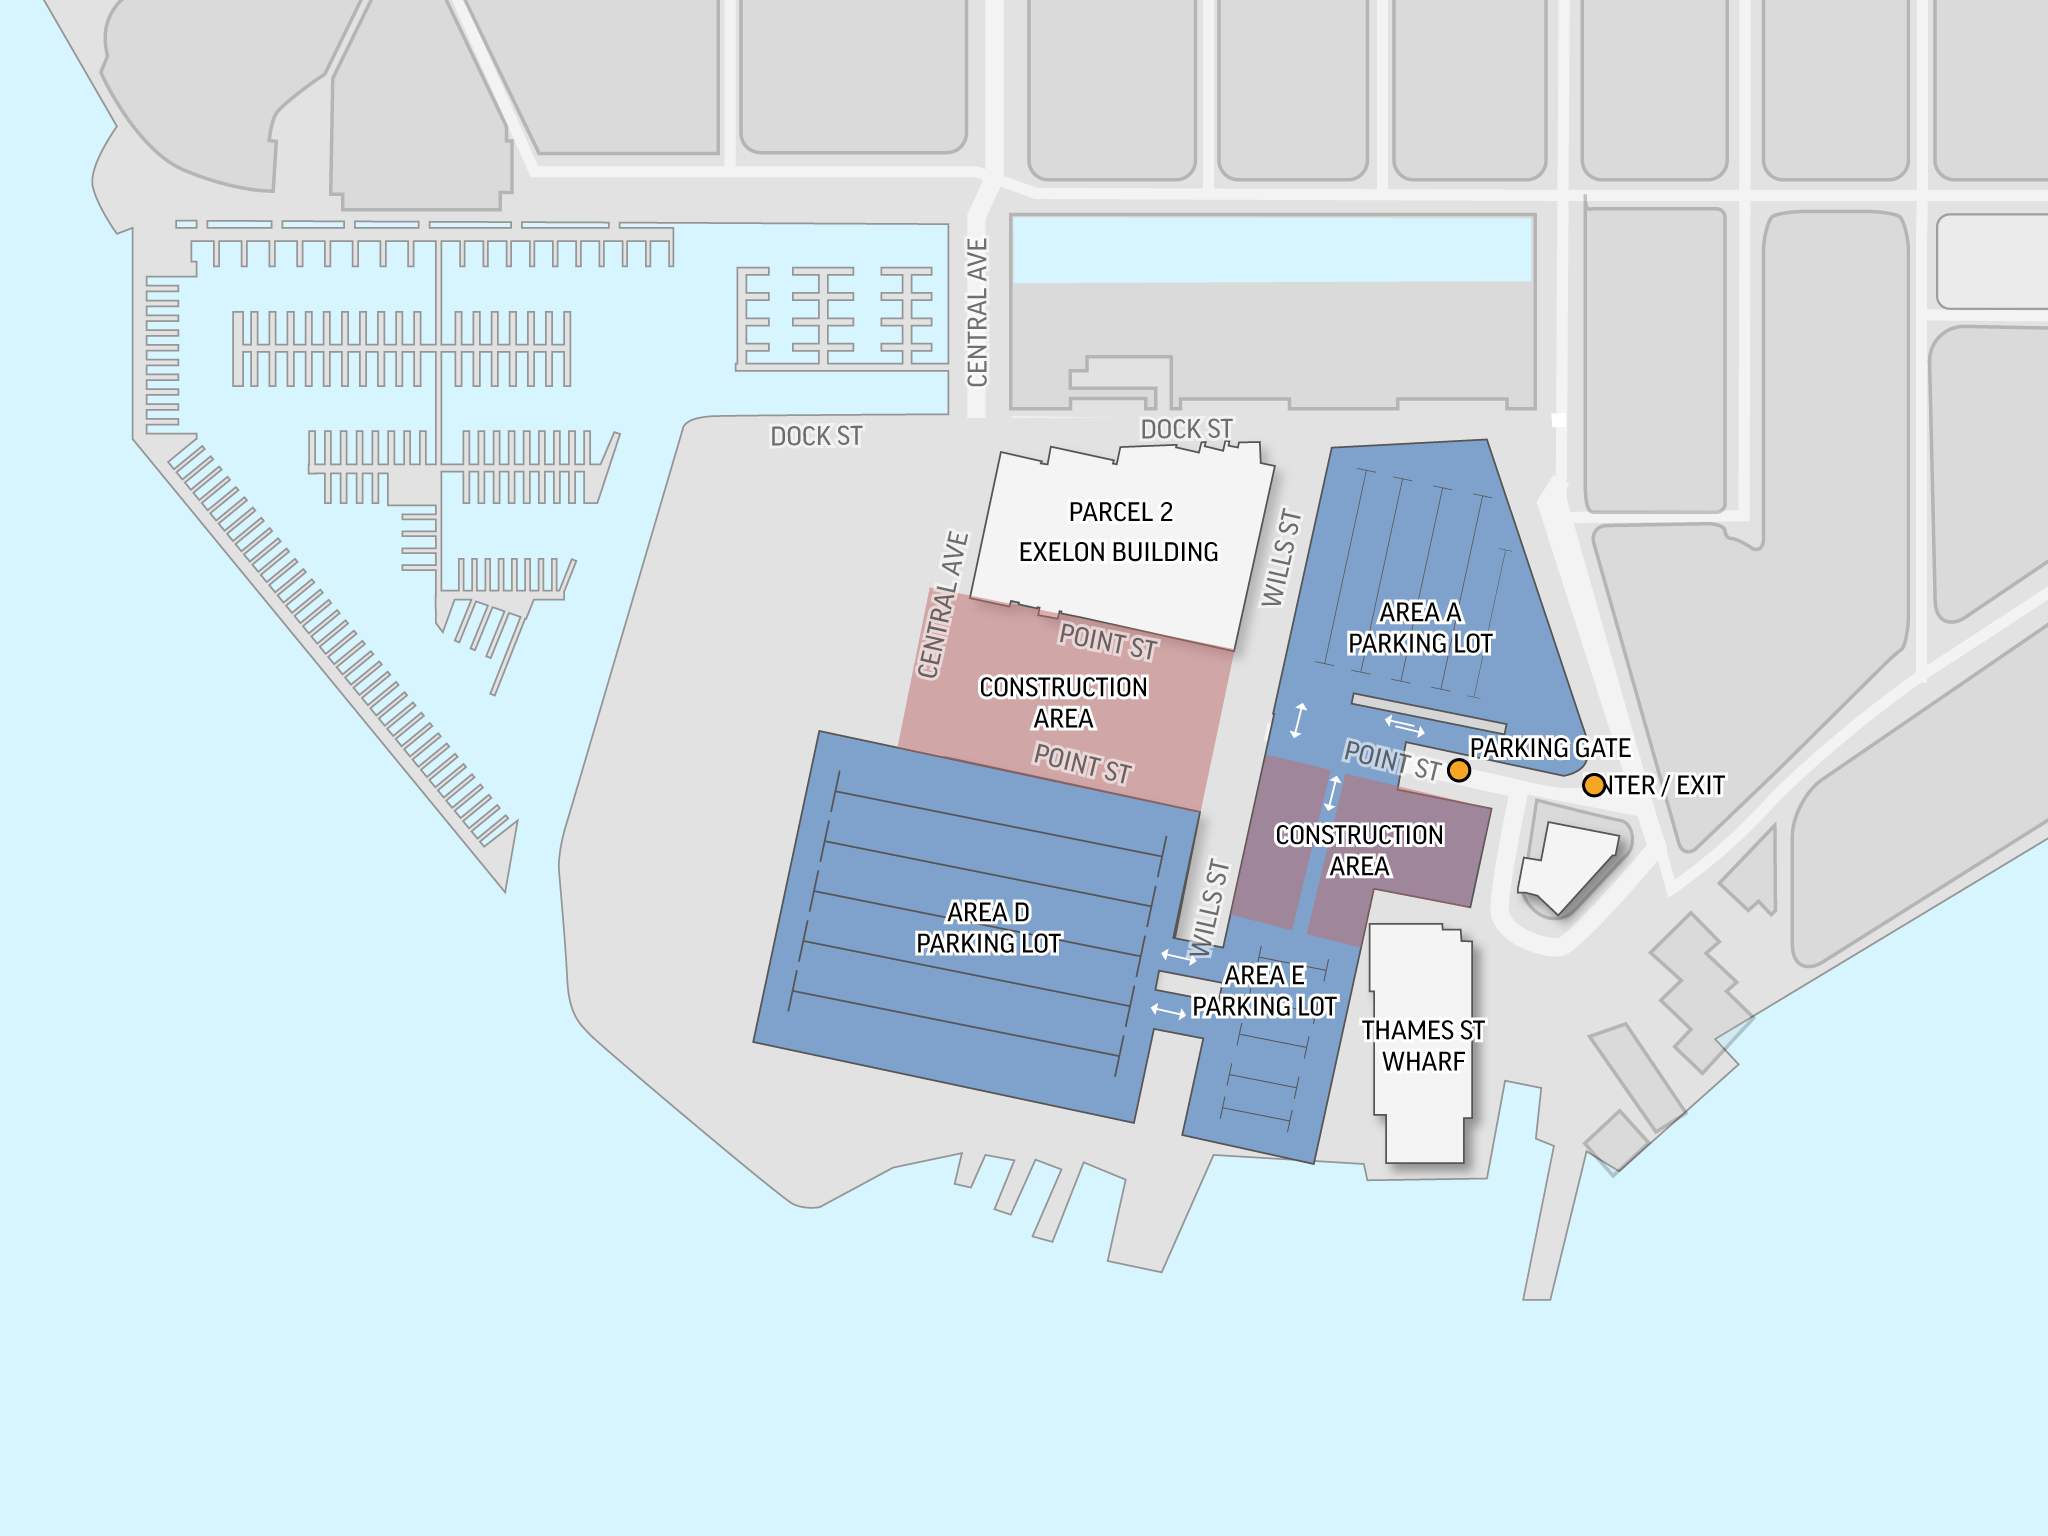
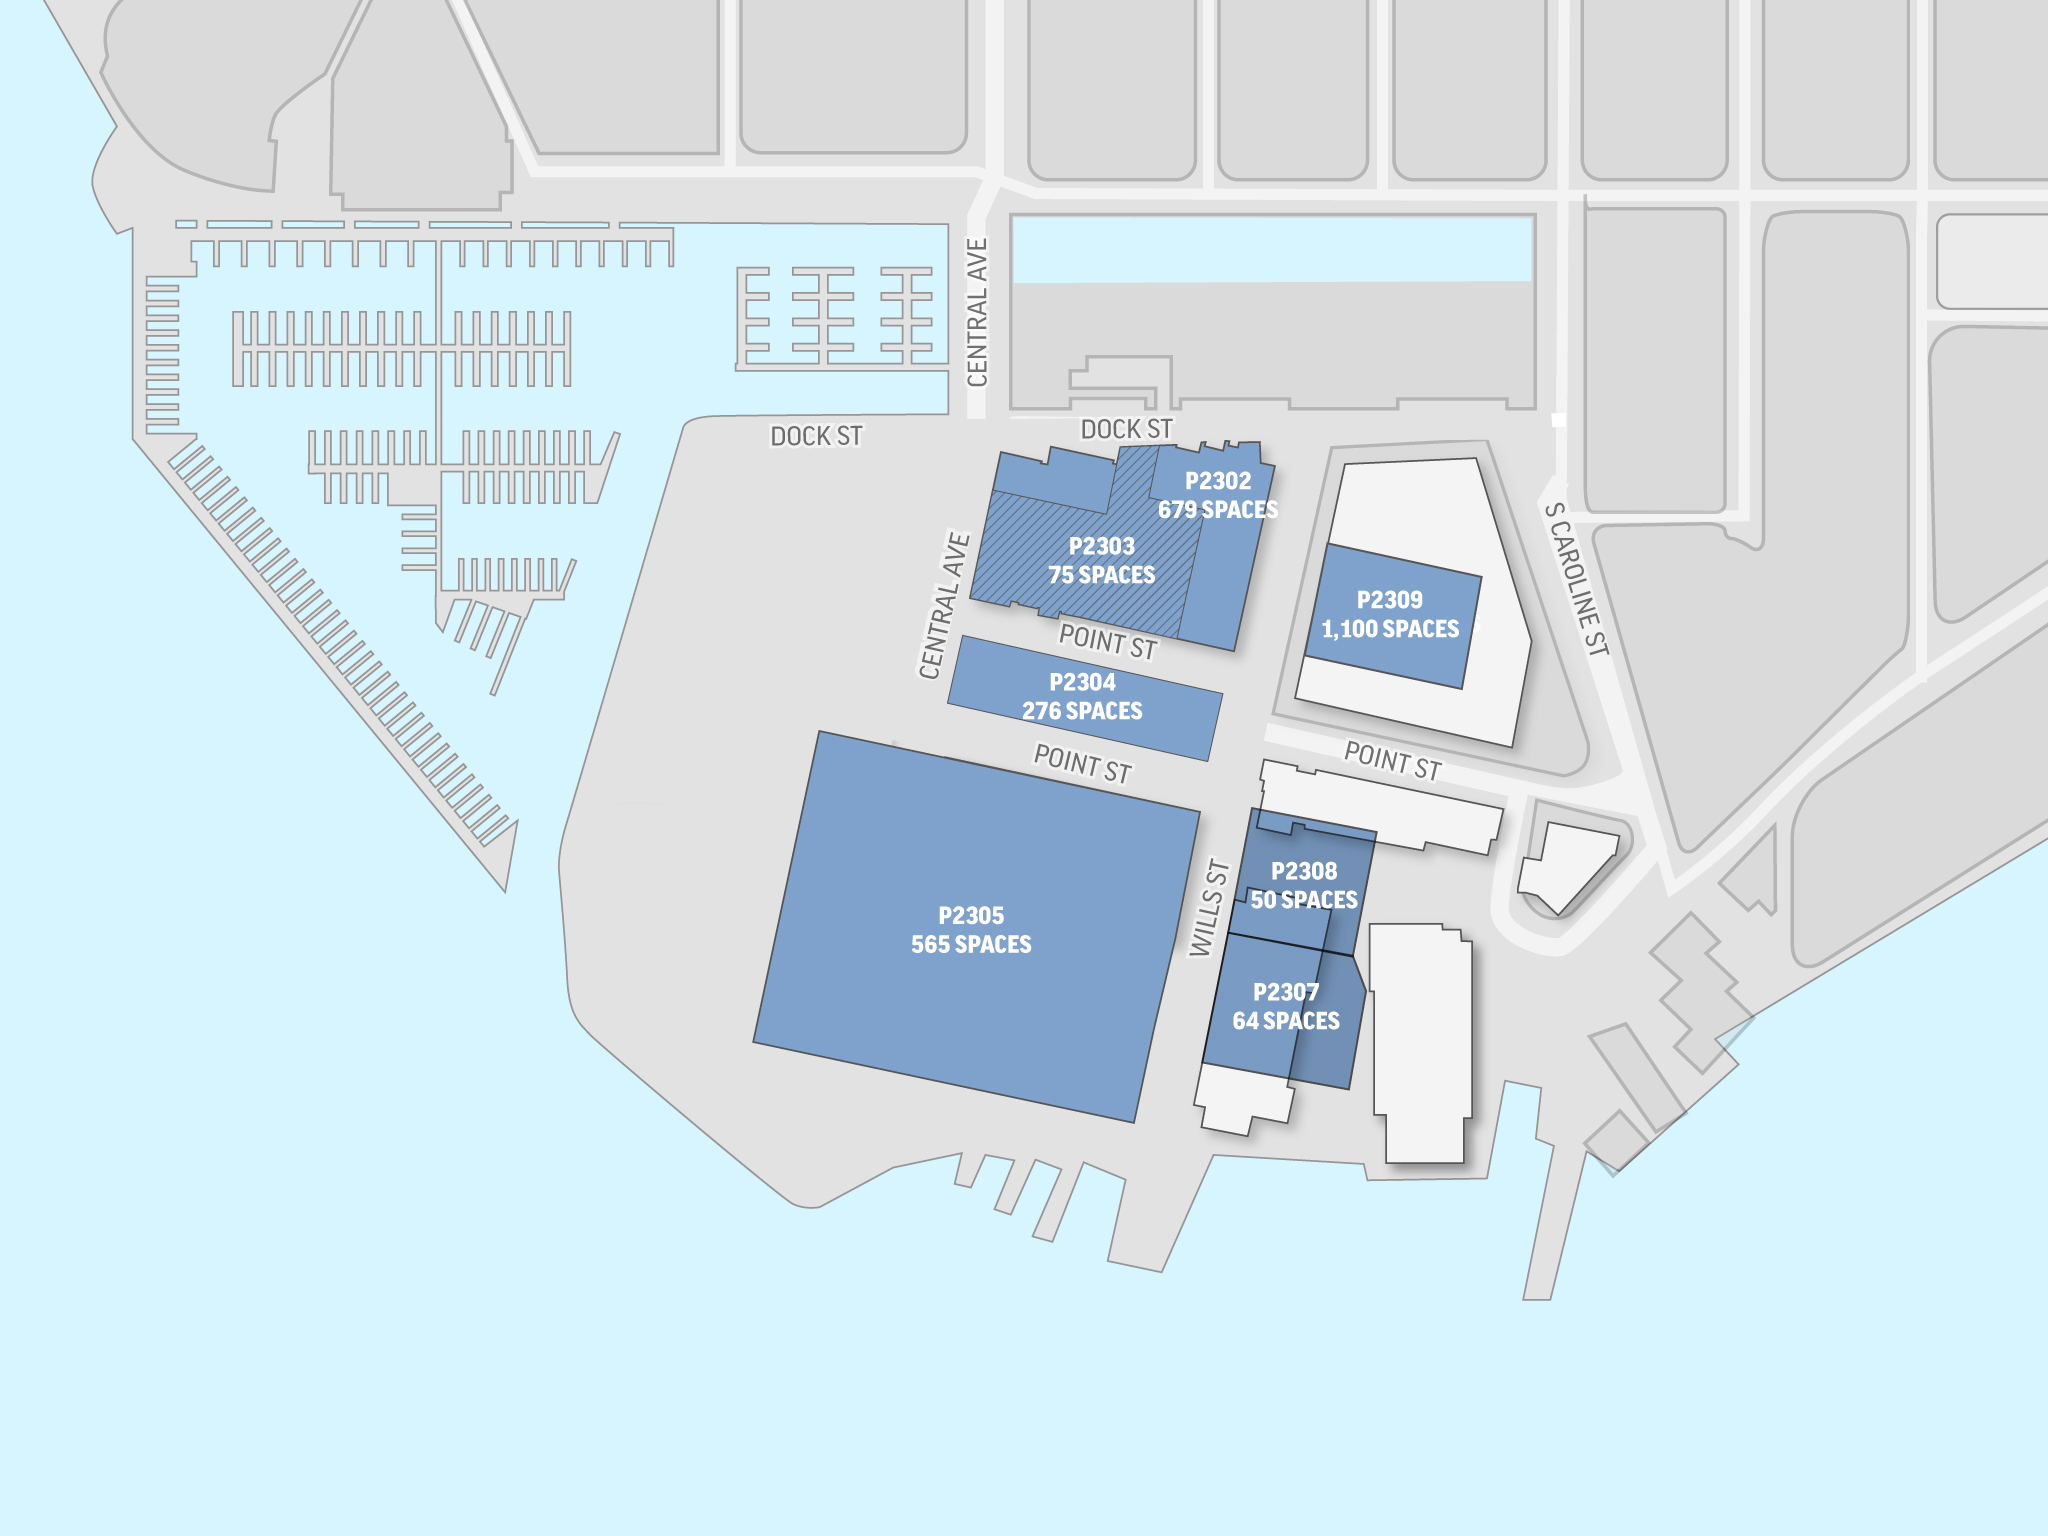
Parking updated, website added

Changed region(s): [[0.4375, 0.25, 0.8438, 0.7812], [0.4375, 0.5625, 0.5312, 0.625], [0.75, 0.5625, 0.7812, 0.5938]]

diff --git a/beattyFrame/ParkingTableViewController.m b/beattyFrame/ParkingTableViewController.m
@@ -1,0 +1,96 @@
+//
+//  ParkingTableViewController.m
+//  beattyFrame
+//
+//  Created by Evan Buxton on 5/12/16.
+//  Copyright © 2016 Xiaohe Hu. All rights reserved.
+//
+
+#import "ParkingTableViewController.h"
+#import "xhWebViewController.h"
+#import "AppDelegate.h"
+#import "UIColor+Extensions.h"
+
+@interface ParkingTableViewController ()
+@property (nonatomic, retain) AppDelegate                   *appDelegate;
+@end
+
+@implementation ParkingTableViewController
+
+- (void)viewDidLoad {
+    [super viewDidLoad];
+    _appDelegate = (AppDelegate *)[[UIApplication sharedApplication] delegate];
+}
+
+-(void)viewWillAppear:(BOOL)animated
+{
+    [self.tableView headerViewForSection:0].textLabel.text = @"NOT ONLINE";
+
+}
+
+- (void)didReceiveMemoryWarning {
+    [super didReceiveMemoryWarning];
+}
+
+- (CGFloat)tableView:(UITableView *)tableView heightForHeaderInSection:(NSInteger)section
+{
+    return 30;
+}
+
+- (UIView *)tableView:(UITableView *)tableView viewForHeaderInSection:(NSInteger)section
+{
+    UILabel *label1 = [[UILabel alloc] init];
+    label1.frame = CGRectMake(0, 0, 320, 30);
+    [label1 setFont:[UIFont fontWithName:@"Arial-BoldMT" size:14]];
+    label1.textAlignment = NSTextAlignmentCenter;
+    label1.textColor = [UIColor whiteColor];
+    label1.backgroundColor = [UIColor clearColor];
+    
+    if ([_appDelegate.isWirelessAvailable isEqualToString:@"NO"]) {
+        label1.text =@"You appear to be offline";
+        self.tableView.userInteractionEnabled = NO;
+    } else {
+        label1.text =@"Live Data from premiumparking.com";
+    }
+
+    UIView *view = [[UIView alloc] initWithFrame:CGRectMake(0, 0, 320, 30)];
+    [view addSubview:label1];
+    view.backgroundColor = [UIColor themeRed];
+    return view;
+}
+
+- (void)tableView:(UITableView *)tableView didSelectRowAtIndexPath:(NSIndexPath *)indexPath
+{
+    [tableView deselectRowAtIndexPath:indexPath animated:YES];
+    NSArray *web = @[@"https://www.premiumparking.com/P2305",
+                     @"https://www.premiumparking.com/P2306",
+                     @"https://www.premiumparking.com/P2307",
+                     ];
+    switch (indexPath.row) {
+        case 3:
+            [self openWeb:web[0]];
+            break;
+        case 4:
+            [self openWeb:web[1]];
+            break;
+        case 5:
+            [self openWeb:web[2]];
+            break;
+
+        default:
+            break;
+    }
+}
+
+-(void)openWeb:(NSString*)webaddress
+{
+    UIStoryboard *mainStoryboard = [UIStoryboard storyboardWithName:@"Main" bundle:nil];
+    xhWebViewController *vc = (xhWebViewController*)[mainStoryboard instantiateViewControllerWithIdentifier:@"xhWebViewController"];
+    [vc socialButton:webaddress];
+    vc.modalPresentationStyle = UIModalPresentationOverFullScreen;
+    [self presentViewController:vc animated:YES completion:nil];
+}
+
+
+
+@end

diff --git a/beattyFrame/MasterplanParkingViewController.m b/beattyFrame/MasterplanParkingViewController.m
@@ -10,8 +10,9 @@
 #import "ebZoomingScrollView.h"
 #import "ButtonStack.h"
 #import "UIColor+Extensions.h"
+#import "xhWebViewController.h"
 
-@interface MasterplanParkingViewController ()<ButtonStackDelegate>
+@interface MasterplanParkingViewController ()<ButtonStackDelegate, UIPopoverPresentationControllerDelegate>
 {
     UIButton                *uib_close;
     ebZoomingScrollView     *uis_zoomSitePlan;
@@ -24,6 +25,7 @@
     int                     overlayParkingMenuIndex;
     ButtonStack *overlayMenu;
     UIImageView *parcelNames;
+    __weak IBOutlet UIButton *uib_parking;
 }
 
 @property (nonatomic, strong) ebZoomingScrollView			*zoomingScroll;
@@ -71,6 +73,8 @@
     }
     
     NSLog(@"index %i",_index);
+    
+    [self.view bringSubviewToFront:uib_parking];
 }
 
 -(void)createHeaderViewWithText:(NSString*)text atFrame:(CGRect)frame
@@ -95,6 +99,7 @@
         _zoomingScroll = [[ebZoomingScrollView alloc] initWithFrame:theFrame image:nil shouldZoom:YES];
         [self.view addSubview:_zoomingScroll];
         _zoomingScroll.backgroundColor = [UIColor clearColor];
+        _zoomingScroll.alpha = 1.0;
         _zoomingScroll.delegate=self;
         _zoomingScroll.blurView.image = [UIImage imageNamed:@"master-plan-default.png"];
         
@@ -249,5 +254,23 @@
 - (void)closeThisView:(id)sender {
     [self dismissViewControllerAnimated:YES completion:^{}];
 }
+
+-(IBAction)createWebButtonWithAddress:(UIButton*)address
+{
+    UIStoryboard *storyboard = [UIStoryboard storyboardWithName:@"Main" bundle:nil];
+    UIViewController *controller = [storyboard instantiateViewControllerWithIdentifier:@"parkingpopover"];
+    controller.preferredContentSize = CGSizeMake(300, 347);
+
+    controller.modalPresentationStyle = UIModalPresentationPopover;
+    [self presentViewController:controller animated:YES completion:nil];
+    
+    UIPopoverPresentationController *popController = [controller popoverPresentationController];
+    popController.permittedArrowDirections = UIPopoverArrowDirectionAny;
+    popController.sourceView = self.view;
+    popController.sourceRect = address.frame;
+    popController.delegate = self;
+}
+
+
 
 @end

diff --git a/beattyFrame/ParkingTableViewController.h b/beattyFrame/ParkingTableViewController.h
@@ -1,0 +1,13 @@
+//
+//  ParkingTableViewController.h
+//  beattyFrame
+//
+//  Created by Evan Buxton on 5/12/16.
+//  Copyright © 2016 Xiaohe Hu. All rights reserved.
+//
+
+#import <UIKit/UIKit.h>
+
+@interface ParkingTableViewController : UITableViewController
+
+@end
